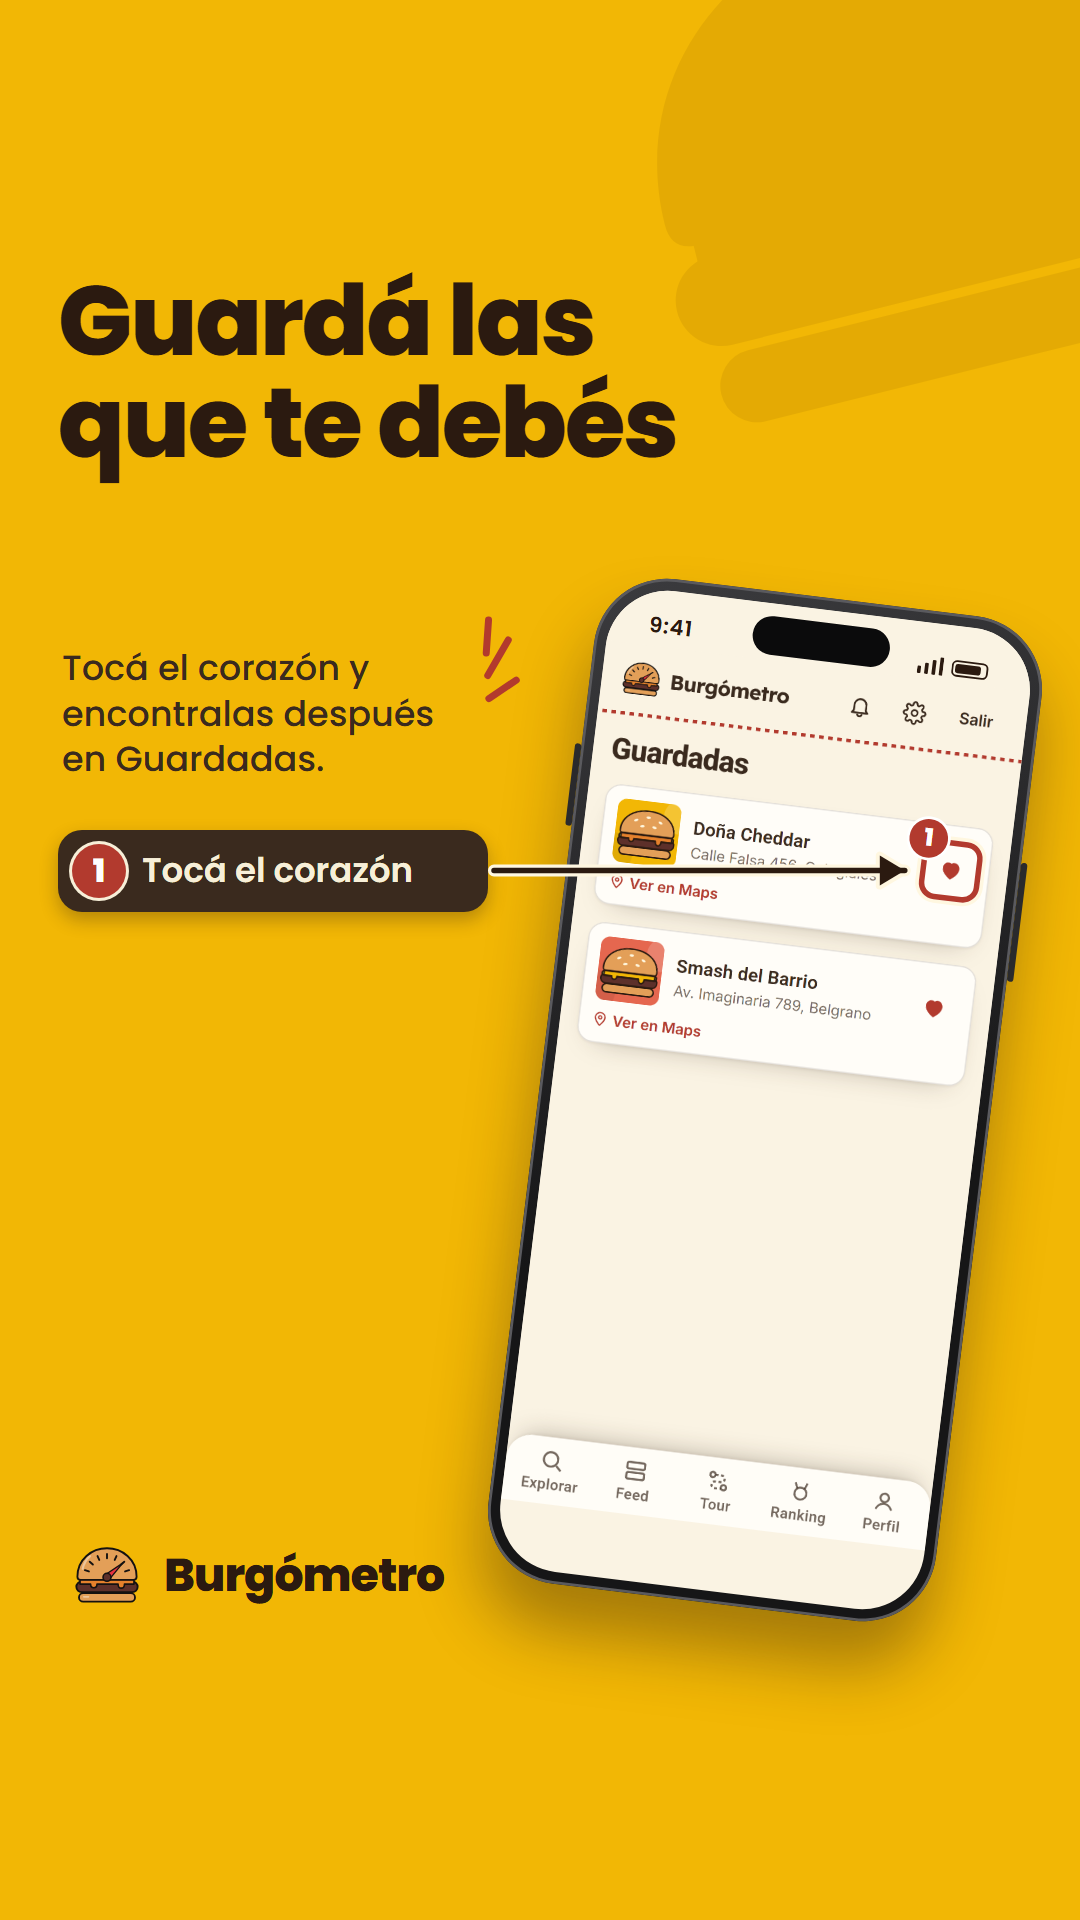
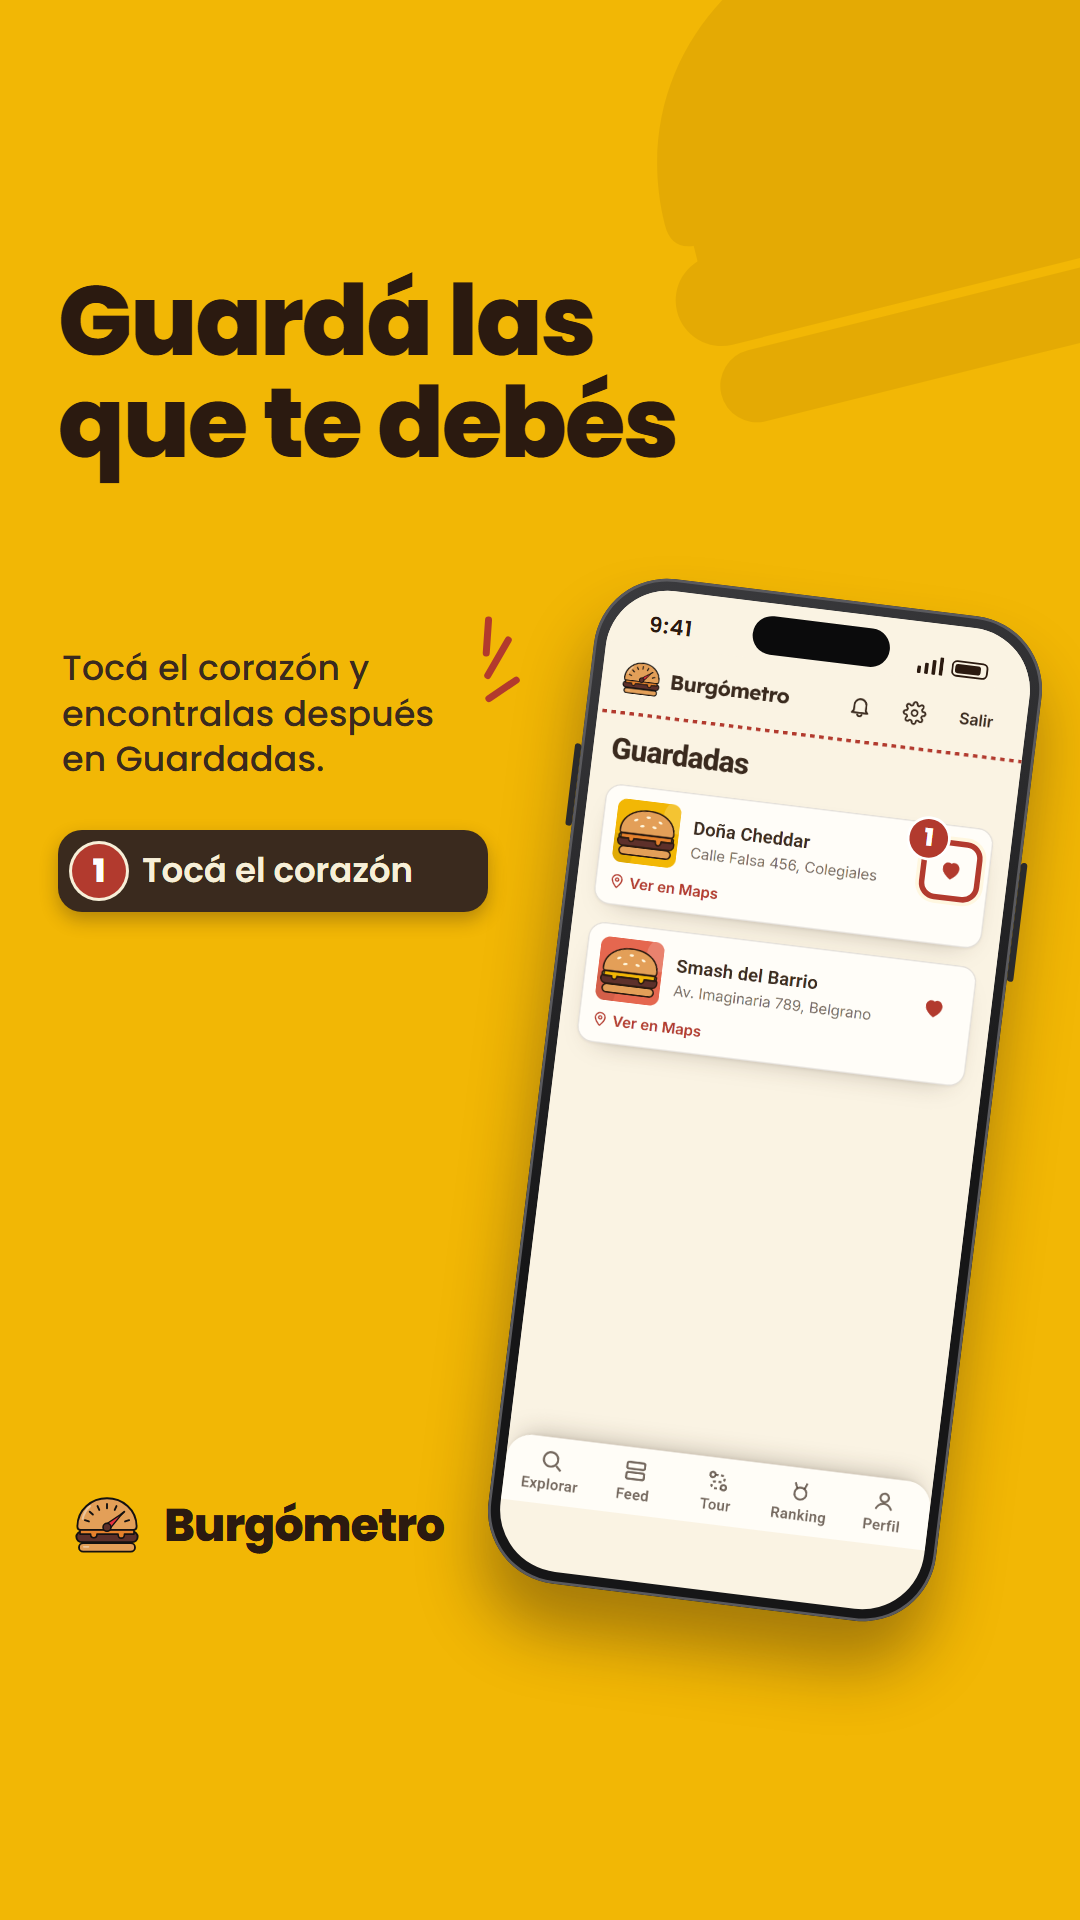
Post de Instagram: sin flechas, el número vincula tarjeta y aro; más aire en la 9 y en 9:16

Changed region(s): [[0.1528, 0.7812, 0.4278, 0.8438], [0.4583, 0.4375, 0.825, 0.4688], [0.0611, 0.7812, 0.1222, 0.8438]]

diff --git a/docs/post-ig/README.md b/docs/post-ig/README.md
@@ -34,4 +34,4 @@ La lámina 9 muestra «Compartir en historias» (#278), ya en main; el local, el
 
 Las láminas 3a, 3b y 9 asumen que el manifest (#281) ya está deployado: sin él, Chrome en Android solo ofrece
 «Agregar a la pantalla principal», con un ícono común, y no «Instalar». **No publiques el post antes del deploy del manifest.**
-En iPhone (Safari) «Compartir > Agregar a inicio» ya funciona hoy. Los pasos de Android e iPhone los verificó Juan en sus celulares. Los pasos van en tarjetas fuera del celu, numerados en rojo y unidos con una flecha a un aro rojo del mismo número sobre la pantalla (así no tapan la captura).
+En iPhone (Safari) «Compartir > Agregar a inicio» ya funciona hoy. Los pasos de Android e iPhone los verificó Juan en sus celulares. Los pasos van en tarjetas fuera del celu, numerados en rojo con el mismo número en un aro rojo sobre la pantalla (sin flechas) (así no tapan la captura).
